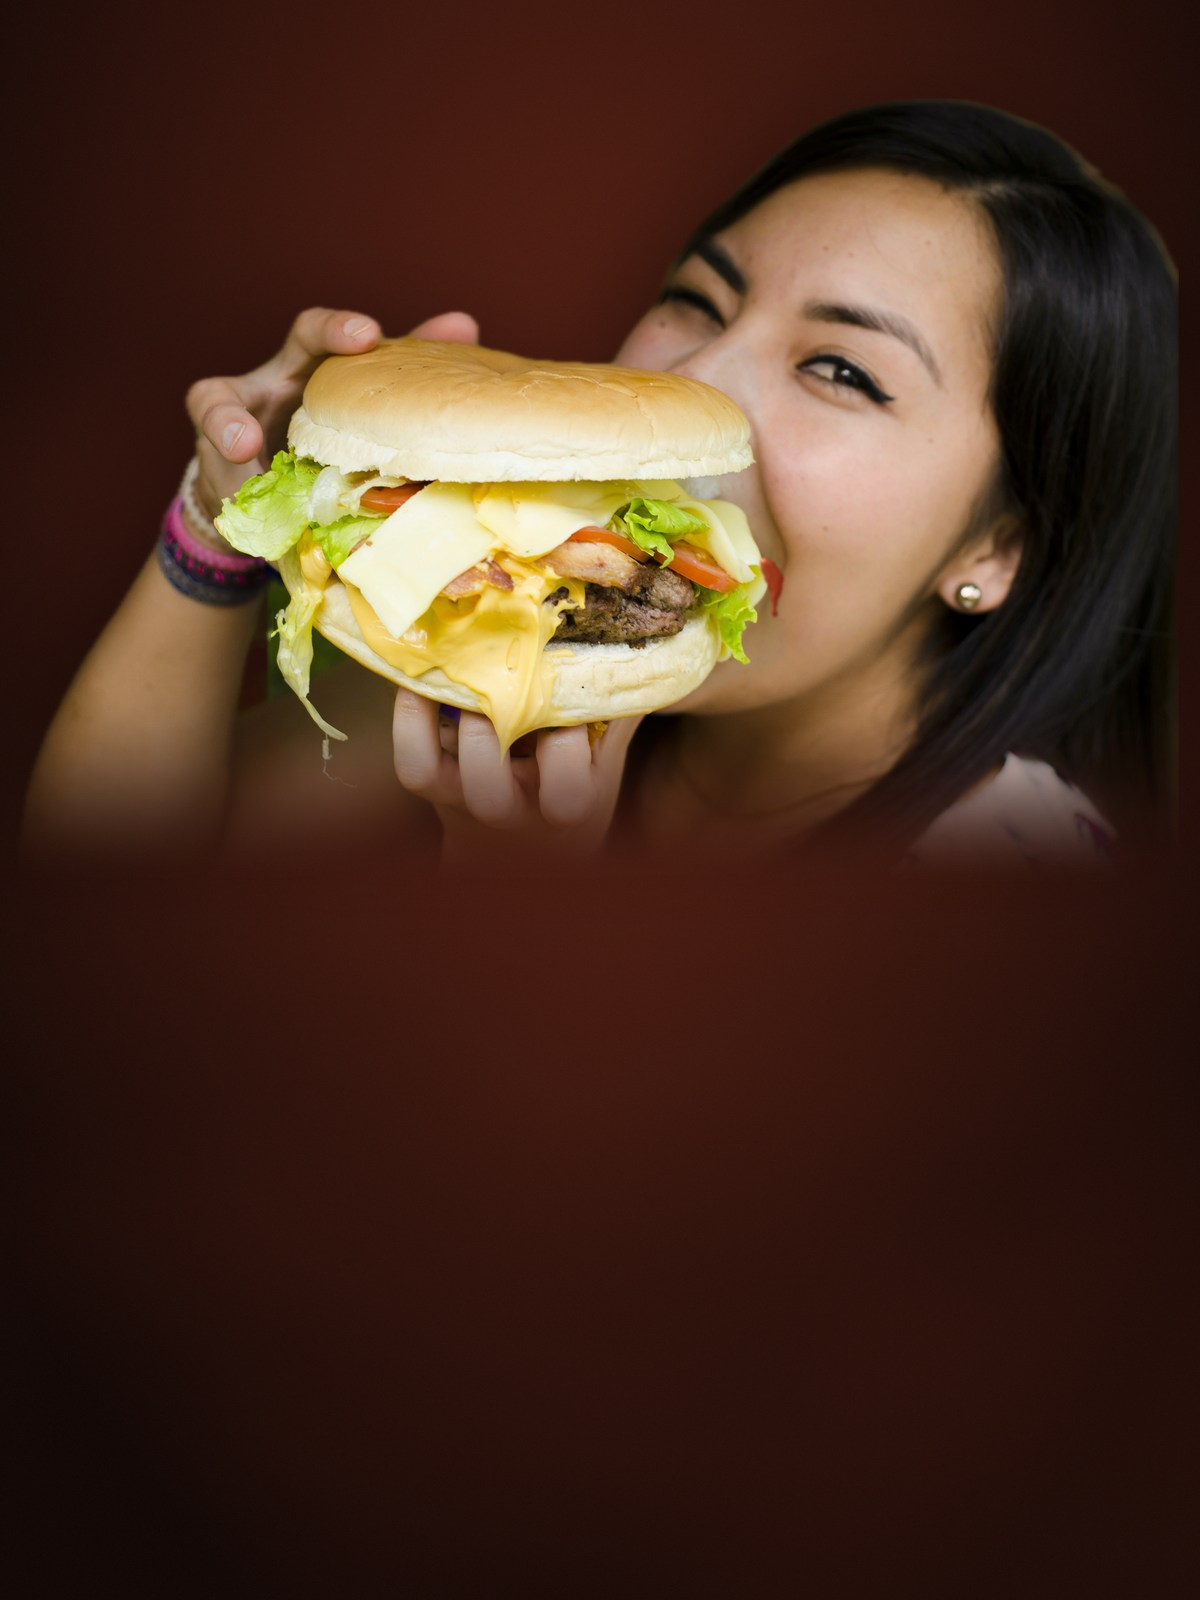
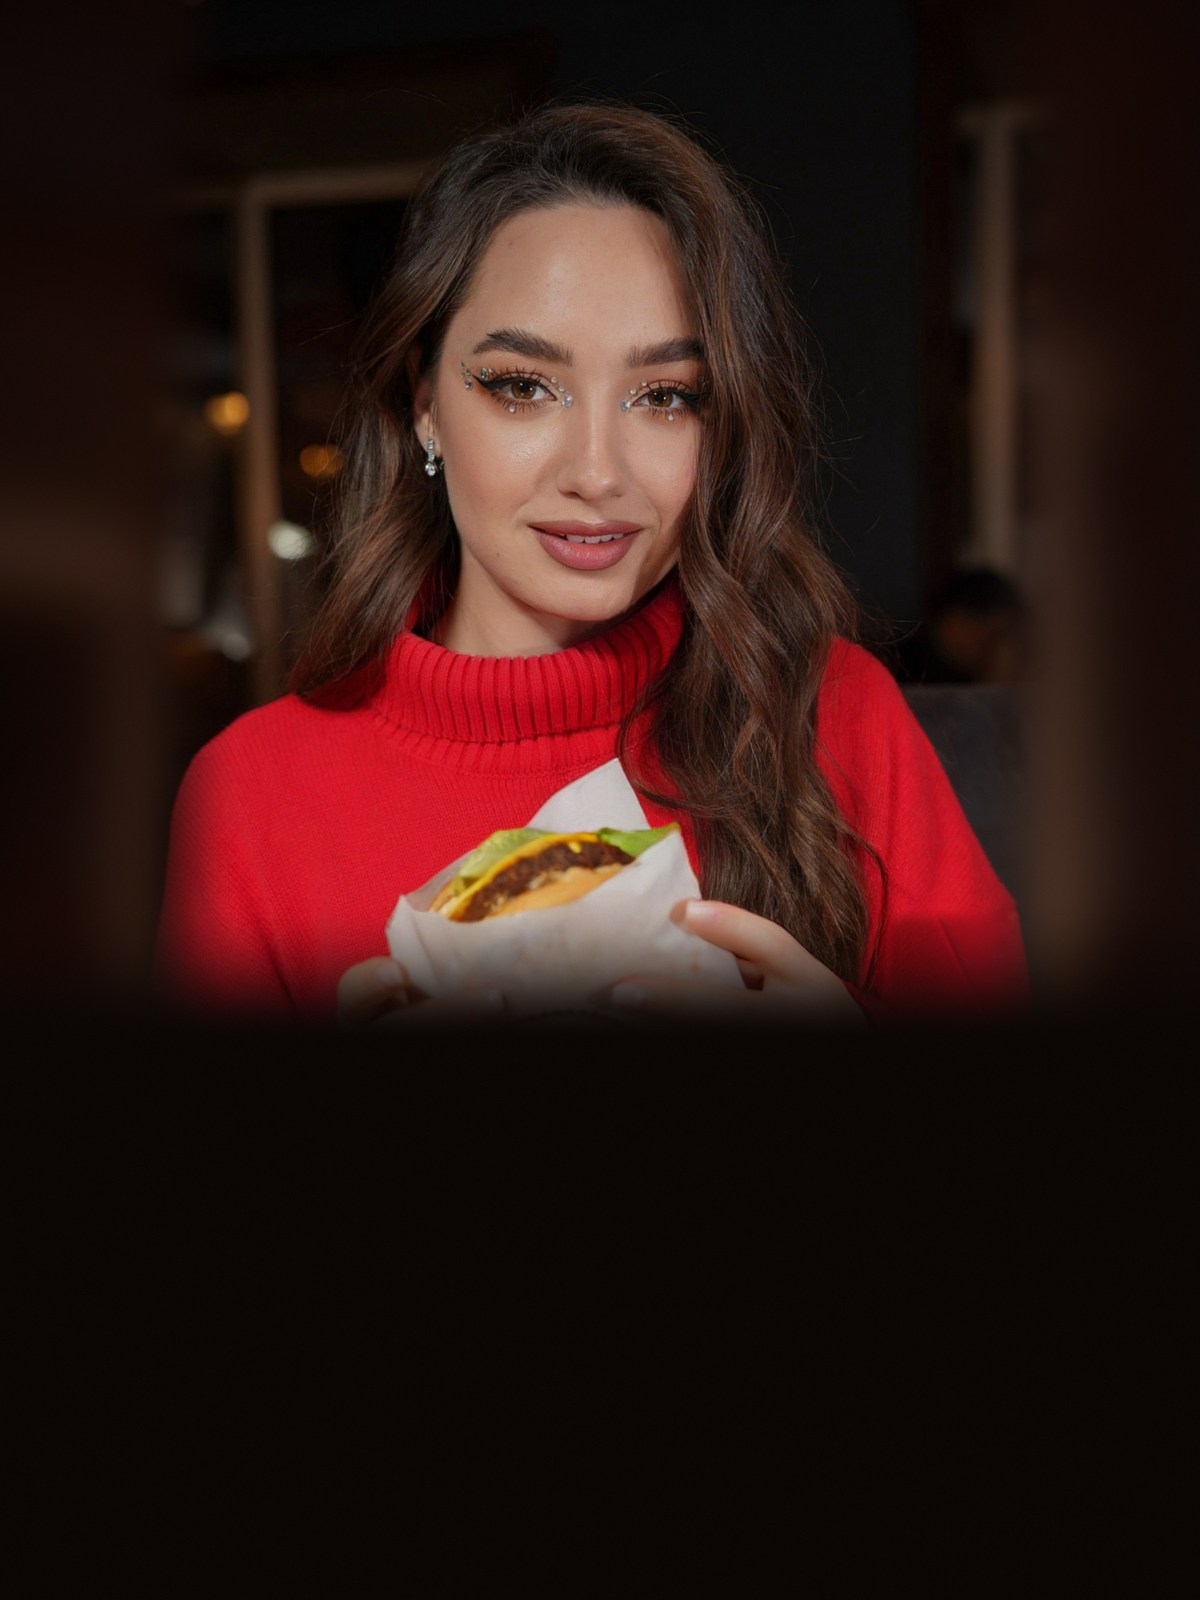
Update CREDITS.md, remove unused hero images, and refine landing page assets
- Updated CREDITS.md to reflect new image sources and credits, including changes to hero images and the addition of new scene images.
- Removed outdated hero images (`wrap-1-wide.jpg` and `wrap-1-tall.jpg`) from the asset list to streamline the menu.
- Adjusted CSS styles for the landing page to improve layout and responsiveness, ensuring clarity across devices.
- Updated static images configuration to include new scene images and reflect the latest asset paths.

diff --git a/apps/web/src/lib/menu-images.ts b/apps/web/src/lib/menu-images.ts
@@ -31,7 +31,7 @@ export type HeroSlide = {
 
 /**
  * The food shots with their phone crops (hero-N-tall.jpg, 1200×1600): the menu's own items
- * (burger, wings, fries, the full spread). The wide crops fill the frame edge to edge.
+ * (burger, wings, fries, the full spread), used as the login and branch picker backdrop.
  */
 export const FOOD_HERO_SLIDES: readonly HeroSlide[] = HERO_SLIDES.map((src) => ({
   src,
@@ -39,17 +39,17 @@ export const FOOD_HERO_SLIDES: readonly HeroSlide[] = HERO_SLIDES.map((src) => (
 }));
 
 /**
- * Shots shown before a food slide (by its index in FOOD_HERO_SLIDES), each a `<name>-wide.jpg`
- * 2400×1600 + `<name>-tall.jpg` 1200×1600 pair: a woman with a burger (people-1) and the Grilled
- * Wrap in BB paper (wrap-1). Sources in public/menu/brovo/CREDITS.md.
+ * Website hero: six full-width `<name>-wide.jpg` 2400×1600 + `<name>-tall.jpg` 1200×1600 pairs.
+ * A woman with a burger, then scenes rather than menu items (the menu is further down the page):
+ * the grill, melted cheese, a chef's flame, spices, a child enjoying fries. Sources in
+ * public/menu/brovo/CREDITS.md.
  */
-const HERO_SHOTS_BEFORE: Readonly<Record<number, string>> = { 0: "people-1", 2: "wrap-1" };
+const LANDING_SHOTS = ["people-1", "scene-1", "scene-2", "scene-3", "scene-4", "scene-5"] as const;
 
-/** Website hero: people-1, hero-1, hero-2, wrap-1, hero-3, hero-4. */
-export const LANDING_HERO_SLIDES: readonly HeroSlide[] = FOOD_HERO_SLIDES.flatMap((food, i) => {
-  const name = HERO_SHOTS_BEFORE[i];
-  return name ? [{ src: `${HERO}/${name}-wide.jpg`, tall: `${HERO}/${name}-tall.jpg` }, food] : [food];
-});
+export const LANDING_HERO_SLIDES: readonly HeroSlide[] = LANDING_SHOTS.map((name) => ({
+  src: `${HERO}/${name}-wide.jpg`,
+  tall: `${HERO}/${name}-tall.jpg`,
+}));
 
 export const MENU_IMAGE = {
   zinger: `${ITEM}/zinger-burger.jpg`,

diff --git a/apps/web/src/app/styles/05-landing.css b/apps/web/src/app/styles/05-landing.css
@@ -2801,7 +2801,7 @@ html[lang="ur"] .landing-section-copy {
   .landing-hero-scrim {
     /* Photos run edge to edge: a light brand tint over all of it, a little more behind the nav
        and the copy so the links and buttons stay clear.
-       The photos show the BB logo and bottle labels, so they are never mirrored. */
+       The photos are never mirrored. */
     background:
       linear-gradient(
         180deg,
@@ -2817,7 +2817,7 @@ html[lang="ur"] .landing-section-copy {
   .landing-hero .landing-tagline {
     text-shadow: 0 1px 2px rgba(0, 0, 0, 0.8), 0 0 14px rgba(18, 9, 6, 0.75);
   }
-  /* Urdu: the main food mostly sits centre to right, so the copy block stays on the left,
+  /* Urdu: the main subject mostly sits centre to right, so the copy block stays on the left,
      reading right to left inside it. */
   html[dir="rtl"] .landing-hero-inner {
     direction: ltr;

diff --git a/apps/web/src/components/AtmosphereBg.tsx b/apps/web/src/components/AtmosphereBg.tsx
@@ -15,7 +15,7 @@ export const ATMOSPHERE_SLIDES: readonly string[] = HERO_SLIDES;
 /** Food shots + their phone crops (branch picker / login default). */
 const FOOD_SLIDES: readonly HeroSlide[] = FOOD_HERO_SLIDES;
 
-const HOLD_MS = 4200;
+const HOLD_MS = 3000;
 /** Art direction: the wide crop on landscape screens from this width up, the tall crop otherwise. */
 const WIDE_MEDIA = "(min-width: 768px) and (min-aspect-ratio: 1/1)";
 const PHOTO_QUALITY = 75;

diff --git a/docs/DESIGN.md b/docs/DESIGN.md
@@ -64,8 +64,8 @@ Dark brand experience (brown-900 + radial glow), professional fast-food layout:
 2. **Hero** (`LandingHero`, `data-phase` = `intro` → `fade` → `photos`, once per page load):
    - **Intro** (server-rendered, the first paint and the LCP): the big BB badge on the dark logo background (`--landing-glow`) with a soft mustard glow and mustard drops falling from the logo's cheese drip. The badge is `/logo.png`, preloaded with `fetchpriority=high`. Only transform and opacity animate.
    - After about 2s (`HERO_INTRO_MIN_MS`, and only once the first photo has loaded), a 1s **crossfade** into the full-bleed **photo slideshow** (`AtmosphereBg`). The badge and drops fade out.
-   - **Slides**: `LANDING_HERO_SLIDES` in `lib/menu-images.ts`, in this order: `people-1`, `hero-1`, `hero-2`, `wrap-1`, `hero-3`, `hero-4`. Owner uploads in `settings.heroSlides` win. Art direction uses `<picture>`: phones and portrait tablets get the **tall 3:4 crop** (`<name>-tall.jpg`) and landscape screens from 768px the wide 3:2 crop. Photos start loading at about 1.2s, so they never compete with the badge.
-   - **Copy anchored bottom-start** at every width, never vertically centred: eyebrow (`settings.eyebrow`), the shop name in Lilita with the stamp shadow, the slogan, then CTAs "View menu" (red sticker) + "Order Now" (WhatsApp, outline, only when a number is set). From 900px the badge sits on the end side during the intro. The scrim darkens from the bottom on phones. On desktop the photos run edge to edge under a light brand tint, a little stronger behind the nav and the copy. The photos show the BB logo and bottle labels, so they are never mirrored; the main food mostly sits centre to right, so in RTL the copy block also stays on the left, reading right to left inside it.
+   - **Slides**: `LANDING_HERO_SLIDES` in `lib/menu-images.ts`, in this order: `people-1`, `scene-1` to `scene-5`. They show a person and scenes (grill, melted cheese, kitchen, spice, a child enjoying fries), not menu items, since the menu is further down the page. `hero-1` to `hero-4` are the login and branch picker backdrop. Owner uploads in `settings.heroSlides` win. Art direction uses `<picture>`: phones and portrait tablets get the **tall 3:4 crop** (`<name>-tall.jpg`) and landscape screens from 768px the wide 3:2 crop. Photos start loading at about 1.2s, so they never compete with the badge.
+   - **Copy anchored bottom-start** at every width, never vertically centred: eyebrow (`settings.eyebrow`), the shop name in Lilita with the stamp shadow, the slogan, then CTAs "View menu" (red sticker) + "Order Now" (WhatsApp, outline, only when a number is set). From 900px the badge sits on the end side during the intro. The scrim darkens from the bottom on phones. On desktop the photos run edge to edge under a light brand tint, a little stronger behind the nav and the copy. The photos are never mirrored; the main subject mostly sits centre to right, so in RTL the copy block also stays on the left, reading right to left inside it.
    - **Reduced motion**: no falling drops and no Ken Burns zoom. The intro still switches to the photos with a short plain crossfade.
    - A mustard drip edge leads into the next section.
 3. **Explore the menu**: category tiles (photo, Lilita name, item count) that jump to sections.

diff --git a/apps/web/public/menu/brovo/CREDITS.md b/apps/web/public/menu/brovo/CREDITS.md
@@ -15,10 +15,14 @@ None come from the previous shop's codebase and none are AI-generated. Owner upl
 | `categories/fries.jpg` | Markus Winkler | Unsplash License | https://unsplash.com/photos/Crispy-fries-and-fried-food-on-a-tray-UiRPPPgjiZA |
 | `categories/salads.jpg` | Jonathan Farber | Unsplash License | https://unsplash.com/photos/vegetable-salad-on-white-and-black-ceramic-bowl-J3bbba1mkH8 |
 | `categories/wings-nuggets.jpg` | Diego Arenas de Rodrigo | Unsplash License | https://unsplash.com/photos/crispy-fried-chicken-wings-with-dipping-sauce-Qx7XfoUnsU0 |
-| `hero/people-1-wide.jpg`, `hero/people-1-tall.jpg` | Luísa Schetinger (background changed, small sauce smear added) | Unsplash License | https://unsplash.com/photos/XZIdSBM4h2U |
+| `hero/people-1-wide.jpg`, `hero/people-1-tall.jpg` | Nadin Sh (bottle removed, background extended) | Pexels License | https://www.pexels.com/photo/19564500/ |
+| `hero/scene-1-wide.jpg`, `hero/scene-1-tall.jpg` | Vitor Monthay | Pexels License | https://www.pexels.com/photo/8365312/ |
+| `hero/scene-2-wide.jpg`, `hero/scene-2-tall.jpg` | Gonzalo Acuña (background darkened) | Pexels License | https://www.pexels.com/photo/12664804/ |
+| `hero/scene-3-wide.jpg`, `hero/scene-3-tall.jpg` | iram shehzad | Pexels License | https://www.pexels.com/photo/38304929/ |
+| `hero/scene-4-wide.jpg`, `hero/scene-4-tall.jpg` | Karola G (mirrored) | Pexels License | https://www.pexels.com/photo/4198653/ |
+| `hero/scene-5-wide.jpg`, `hero/scene-5-tall.jpg` | Moisés Delgado (background darkened) | Pexels License | https://www.pexels.com/photo/10861704/ |
 | `hero/hero-1.jpg`, `hero/hero-1-tall.jpg` | Jonathan Borba (burger); BB box and bucket from the Large Fries and Fries Bucket images | Pexels License; see those rows | https://www.pexels.com/photo/19247575/ |
 | `hero/hero-2.jpg`, `hero/hero-2-tall.jpg` | Ahmed Bhutta | Pexels License | https://www.pexels.com/photo/7169619/ |
-| `hero/wrap-1-wide.jpg`, `hero/wrap-1-tall.jpg` | rajdeepcraft (red BB paper added) | Pexels License | https://www.pexels.com/photo/6416559/ |
 | `hero/hero-3.jpg`, `hero/hero-3-tall.jpg` | 정애 조 (fries); BB box and bucket from the Large Fries and Fries Bucket images | Unsplash License; see those rows | https://unsplash.com/photos/oDzmUuZfntk |
 | `hero/hero-4.jpg`, `hero/hero-4-tall.jpg` | Made from the menu's own item images, including the Cola Next and Fizup pack shots | see the item rows; the pack shots are **not a free licence**, consent still to be obtained | |
 | `items/apple-cabbage-salad.jpg` | Some Tale | Unsplash License | https://unsplash.com/photos/a-white-bowl-filled-with-coleslaw-on-top-of-a-table-2c-7wjgc4fg |

diff --git a/docs/MENU-PHOTOS.md b/docs/MENU-PHOTOS.md
@@ -59,4 +59,5 @@ Credits / licences: `apps/web/public/menu/brovo/CREDITS.md`.
 | `categories/dip-sauces.jpg` | Category | Several dip sauces in ramekins, square 1:1 |
 | `categories/extras.jpg` | Category | Cheese and spice toppings, square 1:1 |
 | `categories/drinks.jpg` | Category | Cold soft drinks with ice, square 1:1 |
-| `hero/hero-1.jpg` … `hero/hero-4.jpg` (+ `-tall`), `people-1`, `wrap-1` | Landing hero | Wide 3:2 shots filling the frame edge to edge, with the main food centre to right (the copy sits lower left under a light overlay), plus a 3:4 `-tall` crop for phones and portrait tablets |
+| `hero/people-1-wide.jpg`, `hero/scene-1-wide.jpg` … `scene-5-wide.jpg` (+ `-tall`) | Landing hero | Wide 3:2 shots filling the frame edge to edge: a person and scenes, not menu items. The copy sits lower left under a light overlay. Plus a 3:4 `-tall` crop for phones and portrait tablets |
+| `hero/hero-1.jpg` … `hero/hero-4.jpg` (+ `-tall`) | Login and branch picker backdrop | Wide 3:2 shots of the menu's food, plus a 3:4 `-tall` crop |
